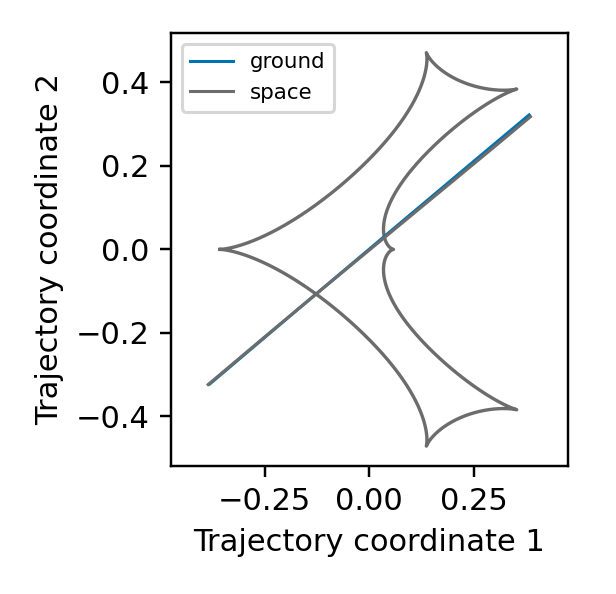
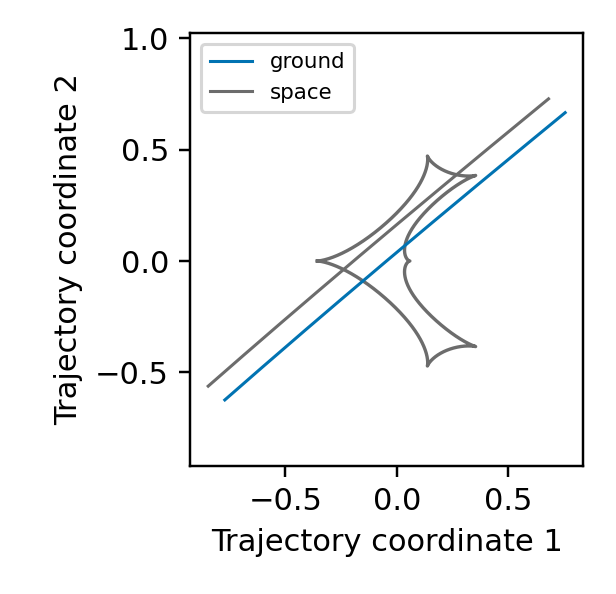
docs: show full space parallax event

diff --git a/example/docs-python/generate_figures.py b/example/docs-python/generate_figures.py
@@ -952,9 +952,11 @@ def higher_order_catalogue():
                 sample_times = np.linspace(7501.37, 7501.46, 600)
                 geometry_times = np.linspace(7485.0, 7515.0, 300)
             if observer == "space":
-                params.update(u0=0.0003, rho=0.0001)
-                sample_times = np.linspace(7501.35, 7501.48, 600)
-                geometry_times = np.linspace(7485.0, 7515.0, 300)
+                # A transverse observer baseline makes both the full light
+                # curve and the two source tracks easy to compare.
+                params.update(u0=0.03, rho=0.004, piEN=0.08, piEE=-0.06)
+                sample_times = np.linspace(7470.0, 7530.0, 1800)
+                geometry_times = np.linspace(7470.0, 7530.0, 400)
             args = dict(lens=lens, source=source,
                         finite_source=not point_source,
                         parallax=parallax, t_ref=7500.)
@@ -972,12 +974,11 @@ def higher_order_catalogue():
             if observer == "terrestrial":
                 curve_kwargs["site"] = parallax_sites["chile"]
             if observer == "space":
-                space_phase = np.linspace(-1.0, 1.0, len(geometry_times))
                 space_table = np.column_stack([
                     2450000.0 + geometry_times,
-                    270.0 + 12.0 * space_phase,
-                    -20.0 + 4.0 * np.sin(np.pi * space_phase),
-                    0.55 + 0.05 * space_phase,
+                    np.full(len(geometry_times), 180.0),
+                    np.full(len(geometry_times), -30.0),
+                    np.full(len(geometry_times), 1.0),
                 ])
                 space_site = lcbinint.obs.Site("space", space_table)
                 curve_kwargs["site"] = space_site
@@ -1069,7 +1070,7 @@ def higher_order_catalogue():
             if observer == "terrestrial":
                 catalogue += ["# A narrow, high-magnification caustic feature makes the site offset visible.", "times = np.linspace(7501.37, 7501.46, 600)", "geometry_times = np.linspace(7485.0, 7515.0, 300)"]
             if observer == "space":
-                catalogue += ["# This high-magnification feature makes the ground/space offset visible.", "times = np.linspace(7501.35, 7501.48, 600)", "geometry_times = np.linspace(7485.0, 7515.0, 300)", "# Cover the complete geometry range so source trajectories use interpolation, not extrapolation.", "space_phase = np.linspace(-1.0, 1.0, len(geometry_times))", "space_ephemeris = {", "    \"jd\": 2450000.0 + geometry_times,", "    \"ra_deg\": 270.0 + 12.0 * space_phase,", "    \"dec_deg\": -20.0 + 4.0 * np.sin(np.pi * space_phase),", "    \"distance_au\": 0.55 + 0.05 * space_phase,", "}", "space_site = lcbinint.obs.Site(\"space\", np.column_stack(tuple(space_ephemeris.values())))"]
+                catalogue += ["# Compare the complete event from ground and space.", "times = np.linspace(7470.0, 7530.0, 1800)", "geometry_times = np.linspace(7470.0, 7530.0, 400)", "space_ephemeris = {", "    \"jd\": 2450000.0 + geometry_times,", "    \"ra_deg\": np.full(len(geometry_times), 180.0),", "    \"dec_deg\": np.full(len(geometry_times), -30.0),", "    \"distance_au\": np.full(len(geometry_times), 1.0),", "}", "space_site = lcbinint.obs.Site(\"space\", np.column_stack(tuple(space_ephemeris.values())))"]
             catalogue += ["parameters = " + repr(params),
                           "curve = lcbinint.LightCurve(options=options, model=lcbinint.Model(" + model_code + "))"]
             if observer == "space":

diff --git a/docs/python/HigherOrderCombinations.md b/docs/python/HigherOrderCombinations.md
@@ -159,19 +159,17 @@ plt.axis("equal"); plt.show()
 #### Space parallax
 
 ```python
-# This high-magnification feature makes the ground/space offset visible.
-times = np.linspace(7501.35, 7501.48, 600)
-geometry_times = np.linspace(7485.0, 7515.0, 300)
-# Cover the complete geometry range so source trajectories use interpolation, not extrapolation.
-space_phase = np.linspace(-1.0, 1.0, len(geometry_times))
+# Compare the complete event from ground and space.
+times = np.linspace(7470.0, 7530.0, 1800)
+geometry_times = np.linspace(7470.0, 7530.0, 400)
 space_ephemeris = {
     "jd": 2450000.0 + geometry_times,
-    "ra_deg": 270.0 + 12.0 * space_phase,
-    "dec_deg": -20.0 + 4.0 * np.sin(np.pi * space_phase),
-    "distance_au": 0.55 + 0.05 * space_phase,
+    "ra_deg": np.full(len(geometry_times), 180.0),
+    "dec_deg": np.full(len(geometry_times), -30.0),
+    "distance_au": np.full(len(geometry_times), 1.0),
 }
 space_site = lcbinint.obs.Site("space", np.column_stack(tuple(space_ephemeris.values())))
-parameters = {'s': 0.9, 'q': 0.1, 't0': 7500.0, 'u0': 0.0003, 'tE': 30.0, 'alpha': 0.7, 'piEN': 0.03, 'piEE': -0.02, 'rho': 0.0001}
+parameters = {'s': 0.9, 'q': 0.1, 't0': 7500.0, 'u0': 0.03, 'tE': 30.0, 'alpha': 0.7, 'piEN': 0.08, 'piEE': -0.06, 'rho': 0.004}
 space_model = lcbinint.Model(lens='binary', source='single', finite_source=True, parallax=True, t_ref=7500.0, sky=sky, terrestrial=True)
 parallax_curves = {
     "ground": lcbinint.LightCurve(model=space_model, site=parallax_sites["chile"], options=options),
